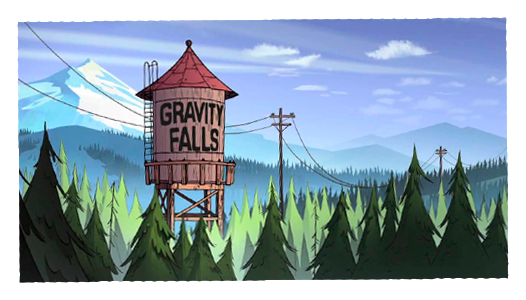
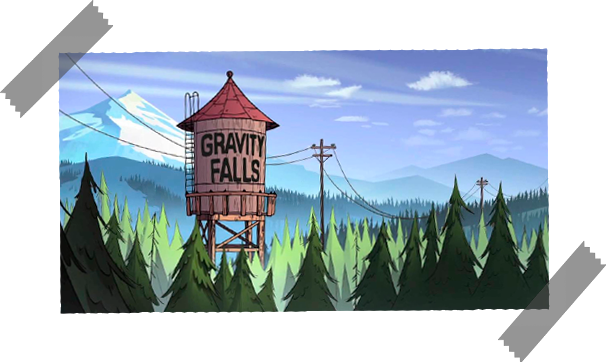
сделал вторую страницу

diff --git a/css/main.css b/css/main.css
@@ -14,6 +14,7 @@
     text-decoration: none;
     z-index: 2;
     overflow-y: hidden;
+    overflow-x: hidden;
 }
 
 html{
@@ -53,7 +54,7 @@ html{
 .left-section{
     width: 50%;
 }
-.h1{
+h1{
     position: relative;
     top: 2vw;
     font-family: "Dabhand";
@@ -72,25 +73,11 @@ html{
 }
 #img1{
     position: relative;
-    top: 2vw;
+    top: 1vw;
     margin-left: 22%;
     transform: rotate(-5deg);
-    width: 50%;
-    height: 30%;
-}
-.tape-1{
-    position: relative;
-    height: 8vw;
-    bottom: 7.5vw;
-    right: 28.5vw;
-    z-index: 3;
-}
-.tape-2{
-    position: relative;
-    height: 8vw;
-    bottom: 4.5vw;
-    z-index: 3;
-    left: 31.5vw;
+    width: 65%;
+    height: 35%;
 }
 .right-setion{
     position: relative;
@@ -110,3 +97,48 @@ html{
     transform: rotate(-3deg);
 }
 /* Close first section */
+
+
+/* Second section */
+
+.left-section-block{
+    width: 50%;
+} 
+#text2{
+    position: relative;
+    margin-top: 3vw;
+    font-family: "text";
+    font-size: 1.4vw;
+    width: 86%;
+    margin-left: 12%;
+    line-height: 1.6;
+    float: left;
+    z-index: 4;
+}
+#img2{
+    position: relative;
+    top: -18vw;
+    margin-left: 48.5%;
+    height: 35vw;
+}
+.right-setion-block{
+    width: 50%;
+}
+#text3{
+    position: relative;
+    margin-top: 3vw;
+    font-family: "text";
+    font-size: 1.4vw;
+    width: 86%;
+    margin-left: 12%;
+    line-height: 1.4;
+    z-index: 3;
+}
+#img3{
+    position: relative;
+    top: -32vw;
+    margin-left: 48.5%;
+    height: 42vw;
+}
+
+/* Close section section  */

diff --git a/index.php b/index.php
@@ -14,14 +14,14 @@
 <body>
 <div class="bb-custom-wrapper">
 				<div id="bb-bookblock" class="bb-bookblock">
-				<!-- <div class="bb-item" id="item1">
+				 <div class="bb-item" id="item1">
 						<div class="content">
 							<div class="scroller">
                                 <div class="opasity_block"></div>
 								<img class="background1" src="img/picture.png" alt="">
 							</div>
 						</div>
-					</div> -->
+					</div> 
 					<?
 						require './functions/connect.php';
 						$sql = $connect->query("SELECT * FROM `info` WHERE `id` = 1");
@@ -46,8 +46,6 @@
 													<?
 												}
 												?>
-												<img class="tape-1" src="/img/tape.png" alt="">
-														<img class="tape-2" src="/img/tape.png" alt="">
 												</div>
 													<div class="right-setion">
 														<img class="img-2" src="/img/img2.png" alt="">
@@ -60,7 +58,48 @@
 							<?
 						}
 					?>
-					
+					<?
+						require './functions/connect.php';
+						$sql = $connect->query("SELECT * FROM `info` WHERE `id` = 2");
+						while($row = $sql->fetch(PDO::FETCH_ASSOC)){
+							?>
+								<div class="bb-item" id="item1">
+									<div class="content">
+										<div class="scroller">	
+										<div class="opasity_block"></div>
+											<div class="background">
+												<div class="left-section-block">
+												<?
+												$sql = $connect->query("SELECT * FROM `info` WHERE `id` = 2");			
+												while($res = $sql->fetch(PDO::FETCH_ASSOC)){
+													?>
+														<h1 id="h<?=$res['id']?>"><?=$res['h1']?></h1>
+														<p id="text<?=$res['id']?>"><?=$res['text']?></p>
+														<img id="img<?=$res['id']?>" src="<?='/'.$res['img']?>" alt="">
+													<?
+												}
+												?>
+												
+												</div>
+													<div class="right-setion-block">
+													<?
+												$sql = $connect->query("SELECT * FROM `info` WHERE `id` = 3");			
+												while($res = $sql->fetch(PDO::FETCH_ASSOC)){
+													?>
+														<h1 id="h<?=$res['id']?>"><?=$res['h1']?></h1>
+														<p id="text<?=$res['id']?>"><?=$res['text']?></p>
+														<img id="img<?=$res['id']?>" src="<?='/'.$res['img']?>" alt="">
+													<?
+												}
+												?>
+													</div>
+											</div>	
+										</div>
+									</div>
+								</div>
+							<?
+						}
+					?>
 					
 					<!-- <div class="bb-item" id="item2">
 						<div class="content">
